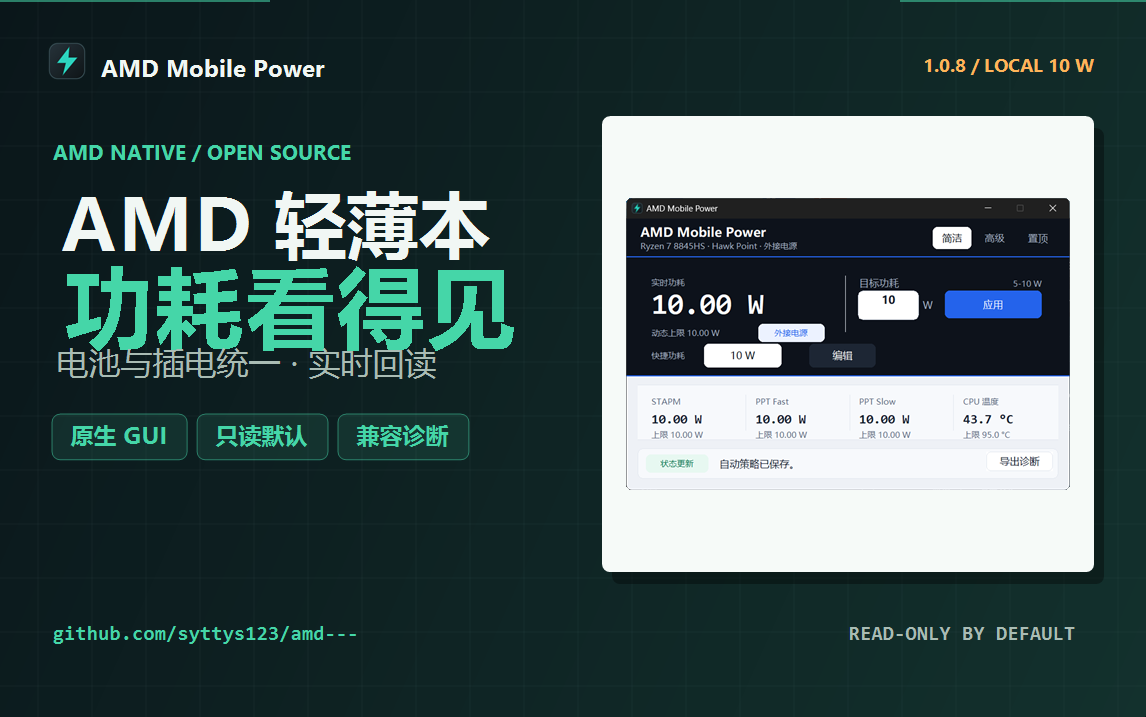
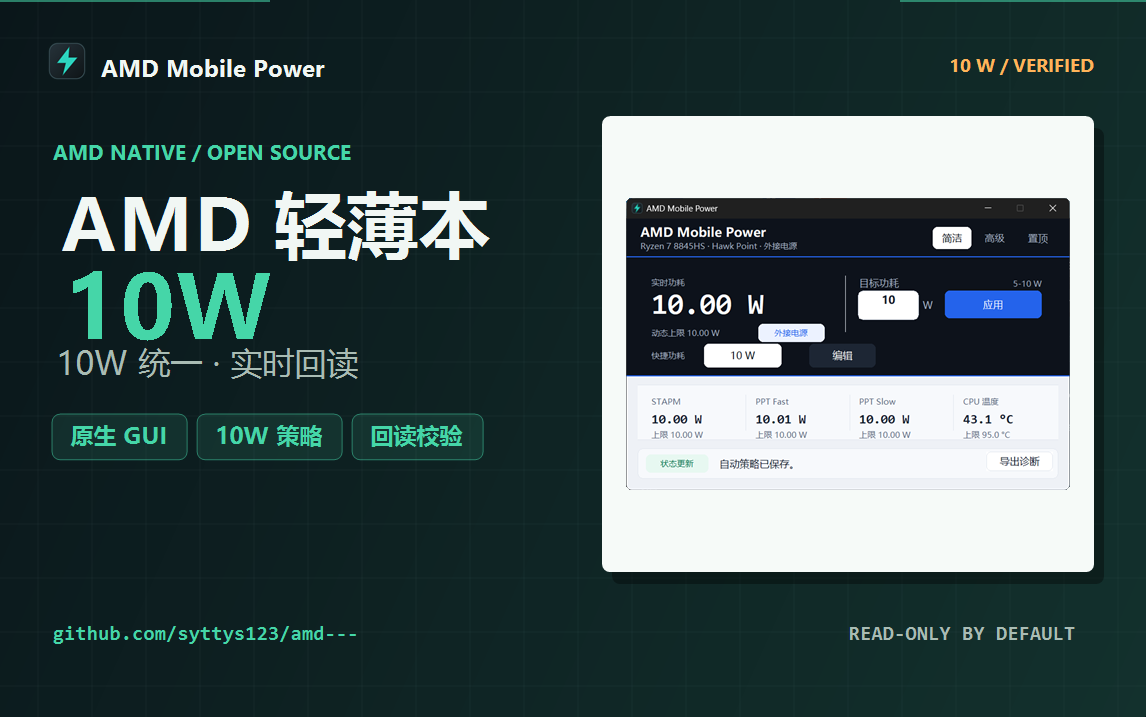
chore(native): promote 1.0.18-native with the worker-hang gate
Package fd7bf191ac557fb9bc1038cb725907ba67e5f819b8eeee6136f5cbe2721d6ef1 (751600 bytes, 19 checksums) is the first package gated with -VerifyWorkerHang. The gate replaced the suspended worker in 34.9 s with 28/28 responsive samples and restored 10/10/10 W. Deployed UI/tray verification, 19/19 payload checksums, and live policy read-back pass.

Changed region(s): [[0.0305, 0.3682, 0.4581, 0.5523], [0.1832, 0.583, 0.4276, 0.6444], [0.8246, 0.0614, 0.9468, 0.1227]]

diff --git a/docs/NATIVE_RELEASE_CANDIDATE_ZH.md b/docs/NATIVE_RELEASE_CANDIDATE_ZH.md
@@ -3,7 +3,7 @@
 状态：`DRAFT_FOR_HUMAN_REVIEW`
 
 这不是公开 Release，也不是 B 站上传授权。本文只汇总原生 Rust GUI + C++
-worker 候选 `1.0.17-native` 的可复核资产、已验证边界和仍需人工完成的门禁。
+worker 候选 `1.0.18-native` 的可复核资产、已验证边界和仍需人工完成的门禁。
 
 ## 目标与定位
 
@@ -16,21 +16,21 @@ AMD 笔记本都受支持。
 
 - Repository: `https://github.com/syttys123/amd-mobile-power`
 - Branch: `main`
-- Candidate: `1.0.17-native`
+- Candidate: `1.0.18-native`
 - Package:
-  `artifacts/native-packages/amd-mobile-power-v1.0.17-native-win-x64-native-preview.zip`
-- Size: `751,599` bytes
+  `artifacts/native-packages/amd-mobile-power-v1.0.18-native-win-x64-native-preview.zip`
+- Size: `751,600` bytes
 - SHA256:
[1 lines of base64/hex data omitted]
-- Package source commit: `672933c9a053cb3d163c0d0166f34da09bf6d8d5`
[1 lines of base64/hex data omitted]
+- Package source commit: `12934dfb2850fab6a9a91216343b45a18f849d07`
 - Working tree at build time: clean
-- Review bundle: `artifacts/native-release-review/v1.0.17-native`
+- Review bundle: `artifacts/native-release-review/v1.0.18-native`
 
-本版新增 worker 卡死自愈：监控线程每完成一轮采样就更新心跳，连续 30 秒无
-心跳时 GUI 在后台线程终止并重启 worker，再下发掉电/插电自动策略；终止和
-限时等待都不占用 UI 线程，worker 卡在驱动调用时窗口仍可响应。1.0.16 的
-退出重启、探针管道忙重试、同提交逐字节可复现、目标框同步、安全驱动卸载、
-多代 profile 目录、DPI 门禁和电池/插电统一策略全部保留。
+本版是第一个把 `-VerifyWorkerHang` 纳入发布门禁的包：门禁会在展开包上
+挂起 worker，等待 30 秒心跳 watchdog 替换，检查窗口全程可响应，并要求
+10/10/10 W 策略恢复。1.0.17 的卡死自愈、退出重启、探针管道忙重试、同提交
+逐字节可复现、目标框同步、安全驱动卸载、多代 profile 目录、DPI 门禁和
+电池/插电统一策略全部保留。
 
 ## 本机验证
 
@@ -43,14 +43,16 @@ AMD 笔记本都受支持。
   （`collectionStatus=PASS`，AC `10/10/10 W`）：PASS。
 - 可复现构建：GUI `ff2dcd48`、worker `67af1d41`、探针 `6a050588`、
   ZIP `eac6fc73`，两次构建逐字节一致。（1.0.13 记录）
-- 1.0.17 可复现构建：GUI `63193c17`、worker `67af1d41`、探针 `9750418f`、
-  ZIP `95abf61a`，两次构建逐字节一致。
+- 1.0.18 可复现构建：GUI `63193c17`、worker `67af1d41`、探针 `9750418f`、
+  ZIP `fd7bf191`，两次构建逐字节一致。
 - worker 自我修复：杀掉部署中的 worker 后新进程 `1.3 s` 内就绪，策略重新
   下发为 `enabled=true`、电池/插电 `10/10/10`，实时回读 `10/10/10 W`；探针在
   GUI 轮询下连续 `30/30` 次调用成功。
 - worker 卡死替换：`NtSuspendProcess` 挂起隔离 worker `34.5 s`，GUI 全程
   `Responding=true`，新 worker 接替后策略恢复为 `enabled=true`、电池/插电
   `10/10/10`、`lastAttemptSucceeded=true`。
+- `1.0.18` 的 `-VerifyWorkerHang` 打包门禁：替换 `34.9 s`、`28/28` 次窗口
+  响应采样通过、失败 0 次，策略恢复 `10/10/10 W`。
 - 隔离安装、覆盖安装、卸载：PASS。
 - 真实当前用户 Start menu / Startup / uninstall entry 建删循环：PASS。
 - `1.0.9-native -> 1.0.10-native` 晋升：包校验、隔离安装/卸载、桌面快捷方式
@@ -71,6 +73,11 @@ AMD 笔记本都受支持。
 
 Evidence:
 
+- `docs/evidence/packaging/v1.0.18-native-clean-2026-11-12.json`
+- `docs/evidence/packaging/v1.0.18-native-release-gate-2026-11-12.json`
+- `docs/evidence/packaging/v1.0.18-native-shell-integration-2026-11-12.json`
+- `docs/evidence/hardware/v1.0.18-native-worker-hang-2026-11-12.json`
+- `docs/evidence/ui/native-packaged-1.0.18-native-ui-2026-11-12.json`
 - `docs/evidence/packaging/v1.0.17-native-watchdog-hang-2026-11-12.json`
 - `docs/evidence/packaging/v1.0.17-native-clean-2026-11-12.json`
 - `docs/evidence/packaging/v1.0.17-native-release-gate-2026-11-12.json`
@@ -94,6 +101,7 @@ Evidence:
 
 Evidence:
 
+- `docs/evidence/hardware/v1.0.18-native-power-policy-no-change-2026-11-12.json`
 - `docs/evidence/hardware/v1.0.17-native-power-policy-no-change-2026-11-12.json`
 - `docs/evidence/hardware/v1.0.17-native-worker-hang-verifier-2026-11-12.json`
 - `docs/evidence/compatibility/mechrevo-wujie15-pro-20261112-011617.json`
@@ -103,10 +111,10 @@ Evidence:
 ## 本地部署
 
 - 目标目录：`C:\RyzenAdj`
-- 版本：`1.0.17-native`
-- 旧版备份：`C:\RyzenAdj.before-20261112-070824`
+- 版本：`1.0.18-native`
+- 旧版备份：`C:\RyzenAdj.before-20261112-074413`
 - 仓库备份：
-  `artifacts/deployment-backups/promote-amd-mobile-power-v1.0.17-native-win-x64-native-preview-20261112-070824.json`
+  `artifacts/deployment-backups/promote-amd-mobile-power-v1.0.18-native-win-x64-native-preview-20261112-074413.json`
 - 桌面快捷方式：`<USER_HOME>\Desktop\功耗设置 5-60W.lnk`
 - 快捷方式参数：`--enable-write-controls --simple-mode --max-target-watts 10
   --uniform-target-watts 10`
@@ -114,7 +122,7 @@ Evidence:
   快捷方式真实参数启动验证 PASS；实时策略 `enabled=true`、电池和插电均为
   `10/10/10 W`，AC 回读 `10/10/10 W`
 - Evidence:
-  `docs/evidence/packaging/v1.0.17-native-deployment-2026-11-12.json`
+  `docs/evidence/packaging/v1.0.18-native-deployment-2026-11-12.json`
 
 ## 发布就绪检查
 
@@ -129,7 +137,7 @@ Evidence:
   真实 100%/150% Windows 会话缩放、托管 CI、
   WinRing0 干净安全基线、视频/封面/文案审阅、公开发布批准、B 站上传。
 - Evidence:
-  `docs/evidence/release/native-publication-readiness-1.0.17-2026-11-12.json`
+  `docs/evidence/release/native-publication-readiness-1.0.18-2026-11-12.json`
 
 ## 发布媒体
 
@@ -138,7 +146,7 @@ Evidence:
 - 时长：`78.2 s`，`1920x1080`，H.264 + AAC
 - SHA256：
[1 lines of base64/hex data omitted]
-- B 站封面：`docs/assets/bilibili-cover-native-1.0.17-2026-11-12.png`
+- B 站封面：`docs/assets/bilibili-cover-native-10w-2026-11-12.png`
 - 审片帧：`docs/assets/native-promo-10w-contact-sheet-2026-11-12.png`
 - 机器证据：`docs/evidence/media/native-promo-draft-2026-11-12.json`
 
@@ -177,7 +185,7 @@ PM table、匹配 profile、电源线和当前限制，并写出脱敏 JSON/Mark
 ```powershell
 pwsh -NoProfile -ExecutionPolicy Bypass `
   -File native\verify-release.ps1 `
-  -Version 1.0.17-native `
+  -Version 1.0.18-native `
   -ExecuteNoChangePolicy `
   -VerifyShellIntegration
 ```

diff --git a/docs/NATIVE_RC_STATUS.md b/docs/NATIVE_RC_STATUS.md
@@ -3,8 +3,9 @@
 Status: `STABLE_LOCAL_DEPLOYED`
 
 This document tracks the native Rust GUI + C++ worker package and its
-stable-local deployment. `C:\RyzenAdj` currently holds `1.0.17-native`. The
-previous native `1.0.16-native` build is preserved as
+stable-local deployment. `C:\RyzenAdj` currently holds `1.0.18-native`. The
+previous native `1.0.17-native` build is preserved as
+`C:\RyzenAdj.before-20261112-074413`, `1.0.16-native` as
 `C:\RyzenAdj.before-20261112-070824`, `1.0.15-native` as
 `C:\RyzenAdj.before-20261112-064143`, `1.0.14-native` as
 `C:\RyzenAdj.before-20261112-063328`, `1.0.13-native` as
@@ -27,13 +28,15 @@ previous native `1.0.16-native` build is preserved as
 
 Decision (2026-11-12): the native line has a hardware-gated stable-local
 candidate for the verified 8845HS platform, and `C:\RyzenAdj` now contains the
-`1.0.17-native` package. Broader AMD generation support remains experimental.
+`1.0.18-native` package. Broader AMD generation support remains experimental.
 The current local publication readiness gate is `PASS` with all 13 checks true,
 with
 `PublicReleaseReadiness=READY_FOR_HUMAN_REVIEW` and no local blockers. Evidence:
-`docs/evidence/release/native-publication-readiness-1.0.17-2026-11-12.json`.
+`docs/evidence/release/native-publication-readiness-1.0.18-2026-11-12.json`.
 
-Note (2026-11-12): `1.0.17-native` adds hung-worker replacement on top of the
+Note (2026-11-12): `1.0.18-native` is the first package gated with
+`-VerifyWorkerHang`, which runs the maintained hang verifier against the
+expanded package. `1.0.17-native` added hung-worker replacement on top of the
 30 s heartbeat watchdog. A worker that stops answering is terminated from a
 background thread and respawned, then the saved battery/AC policy is restored;
 the GUI window remains responsive even while a driver-bound worker is being
@@ -86,13 +89,13 @@ accessibility settings.
 ## Current Candidate
 
 ```text
-artifacts/native-packages/amd-mobile-power-v1.0.17-native-win-x64-native-preview.zip
+artifacts/native-packages/amd-mobile-power-v1.0.18-native-win-x64-native-preview.zip
 ```
 
-- Size: `751,599` bytes.
+- Size: `751,600` bytes.
 - SHA256:
[1 lines of base64/hex data omitted]
-- Source commit: `672933c9a053cb3d163c0d0166f34da09bf6d8d5`.
[1 lines of base64/hex data omitted]
+- Source commit: `12934dfb2850fab6a9a91216343b45a18f849d07`.
 - Working tree at build time: clean.
 - Reproducibility: GUI `63193c17`, probe `9750418f`, worker `67af1d41`, and the
   ZIP itself are byte-identical across two builds.
@@ -101,7 +104,7 @@ artifacts/native-packages/amd-mobile-power-v1.0.17-native-win-x64-native-preview
 Local review bundle:
 
 ```text
-artifacts/native-release-review/v1.0.17-native
+artifacts/native-release-review/v1.0.18-native
 ```
 
 The bundle is `REVIEW_ONLY` and is not a public release.
@@ -153,7 +156,7 @@ and source commit `ddb7d9cba3195f4a16df1299215a9e26cd18544f`.
 - Read-only hardware capability and telemetry probe on Ryzen 7 8845HS on AC:
   Hawk Point family `10`, PM table `4c0009`, profile
   `hawk-point-8845hs`, limits `10/10/10 W`.
-- `1.0.17-native` clean package verification (19 checksum entries), isolated
+- `1.0.18-native` clean package verification (19 checksum entries), isolated
   install/uninstall, shell integration, DPI fixtures, packaged headless probe,
   and a controlled current-value policy probe pass. The deployed UI shows
   target editor `10`, effective range `5-10 W`, one visible `10 W` preset, and
@@ -177,6 +180,9 @@ and source commit `ddb7d9cba3195f4a16df1299215a9e26cd18544f`.
   suspends the worker, samples GUI responsiveness every second, and requires
   the replacement to restore the 10 W policy. `verify-release.ps1
   -VerifyWorkerHang` runs it against the expanded package.
+- `1.0.18-native` is the first package gated with `-VerifyWorkerHang`:
+  replacement in `34.9 s`, `28/28` responsive samples, zero failures, and the
+  10/10/10 W policy restored.
 - Native read-only write guard: invalid target rejected, no write requested.
 - Battery-authorized dry-run write guard: PASS with
   `ExecuteNoChangeWrite=Not requested`.
@@ -260,6 +266,13 @@ and source commit `ddb7d9cba3195f4a16df1299215a9e26cd18544f`.
 
 ## Evidence
 
+- `docs/evidence/packaging/v1.0.18-native-clean-2026-11-12.json`
+- `docs/evidence/packaging/v1.0.18-native-release-gate-2026-11-12.json`
+- `docs/evidence/packaging/v1.0.18-native-shell-integration-2026-11-12.json`
+- `docs/evidence/packaging/v1.0.18-native-deployment-2026-11-12.json`
+- `docs/evidence/hardware/v1.0.18-native-power-policy-no-change-2026-11-12.json`
+- `docs/evidence/hardware/v1.0.18-native-worker-hang-2026-11-12.json`
+- `docs/evidence/ui/native-packaged-1.0.18-native-ui-2026-11-12.json`
 - `docs/evidence/packaging/v1.0.17-native-watchdog-hang-2026-11-12.json`
 - `docs/evidence/packaging/v1.0.17-native-clean-2026-11-12.json`
 - `docs/evidence/packaging/v1.0.17-native-release-gate-2026-11-12.json`
@@ -295,7 +308,7 @@ and source commit `ddb7d9cba3195f4a16df1299215a9e26cd18544f`.
 - `docs/evidence/ui/native-deployed-1.0.8-native-ui-2026-11-12.json`
 - `docs/evidence/ui/native-dpi-100-125-150-2026-11-12.json`
 - `docs/evidence/compatibility/mechrevo-wujie15-pro-20261112-011617.json`
-- `docs/evidence/release/native-publication-readiness-1.0.17-2026-11-12.json`
+- `docs/evidence/release/native-publication-readiness-1.0.18-2026-11-12.json`
 - `docs/assets/native-exe-icon-2026-11-11.png`
 - `native/rust-gui/build.rs`
 - `native/check-exe-icon.ps1`

diff --git a/docs/DEPLOYMENT.md b/docs/DEPLOYMENT.md
@@ -75,27 +75,28 @@ rolls back on failure.
 
 ## Current Deployment Evidence
 
-On 2026-11-12, `1.0.17-native` replaced `1.0.16-native` at `C:\RyzenAdj`. It
-adds hung-worker replacement: a 30 s heartbeat watchdog terminates and
-respawns a worker that stops answering, from a background thread, then
-restores the saved battery/AC policy. Exit supervision, probe pipe-busy
-retries, and the 10 W uniform policy remain in place.
+On 2026-11-12, `1.0.18-native` replaced `1.0.17-native` at `C:\RyzenAdj`. It
+is the first package gated with `-VerifyWorkerHang`: the gate suspends the
+isolated worker, waits for the 30 s heartbeat watchdog to replace it, checks
+that the GUI stays responsive, and requires the saved 10/10/10 W policy to
+return. Exit supervision, probe pipe-busy retries, and the 10 W uniform policy
+remain in place.
 
 - Package SHA256:
[1 lines of base64/hex data omitted]
-- Package size: `751,599` bytes, 19 checksum entries
-- Package source commit: `672933c9a053cb3d163c0d0166f34da09bf6d8d5`
[1 lines of base64/hex data omitted]
+- Package size: `751,600` bytes, 19 checksum entries
+- Package source commit: `12934dfb2850fab6a9a91216343b45a18f849d07`
[3 lines of base64/hex data omitted]
-- Previous stable rollback directory: `C:\RyzenAdj.before-20261112-070824`
+- Previous stable rollback directory: `C:\RyzenAdj.before-20261112-074413`
 - Release gate:
-  `docs\evidence\packaging\v1.0.17-native-release-gate-2026-11-12.json`
+  `docs\evidence\packaging\v1.0.18-native-release-gate-2026-11-12.json`
 - Deployment evidence:
-  `docs\evidence\packaging\v1.0.17-native-deployment-2026-11-12.json`
-- Acceptance: `NtSuspendProcess` held the live worker for `34.5 s`; the GUI
-  stayed responsive, a replacement worker appeared, and the saved policy was
-  re-applied (`enabled=true`, both targets `10/10/10`).
+  `docs\evidence\packaging\v1.0.18-native-deployment-2026-11-12.json`
+- Acceptance: `-VerifyWorkerHang` held the isolated worker until the watchdog
+  replaced it in `34.9 s`; `28/28` responsiveness samples passed and the saved
+  policy was re-applied (`enabled=true`, both targets `10/10/10`).
 
 On 2026-11-12, `1.0.13-native` replaced `1.0.12-native` at `C:\RyzenAdj`. It is
 the first release whose portable ZIP rebuilds byte-identically from the same

diff --git a/README.md b/README.md
@@ -6,7 +6,7 @@ AMD thin-and-light laptops. It uses a Rust GUI and a separate C++ worker so the
 UI and hardware access stay behind a narrow named-pipe contract.
 
 > Status: no public release yet. The current stable-local candidate is
-> `1.0.17-native`, validated on one MECHREVO WUJIE15 PRO with a Ryzen 7 8845HS.
+> `1.0.18-native`, validated on one MECHREVO WUJIE15 PRO with a Ryzen 7 8845HS.
 > Its GUI, probe, worker, and portable ZIP rebuild byte-identically from the
 > same commit. Local publication readiness is `PASS`; the release remains
 > `READY_FOR_HUMAN_REVIEW`.
@@ -71,12 +71,12 @@ portable package's read-only default.
 Current review candidate:
 
 ```text
-artifacts/native-packages/amd-mobile-power-v1.0.17-native-win-x64-native-preview.zip
+artifacts/native-packages/amd-mobile-power-v1.0.18-native-win-x64-native-preview.zip
 ```
 
-- Size: `751,599` bytes
+- Size: `751,600` bytes
 - SHA256:
[2 lines of base64/hex data omitted]
 
 1. Extract the complete ZIP to a writable directory.
 2. On a fresh Windows host, open an elevated PowerShell in the extracted
@@ -148,7 +148,7 @@ git submodule update --init --recursive
 .\native\verify-native.ps1 -NoBuild -VerifyHardware -VerifyRustGui `
   -VerifyRustWorker -VerifyWriteGuard
 .\native\verify-release.ps1 `
-  -Version 1.0.17-native `
+  -Version 1.0.18-native `
   -VerifyReproducibility `
   -VerifyShellIntegration `
   -ExecuteNoChangePolicy `

diff --git a/docs/DEV_STATUS.md b/docs/DEV_STATUS.md
@@ -221,7 +221,19 @@ not authoritative.
   bundle is `artifacts/native-release-review/v1.0.13-native`. Open gates remain
   the second AMD device, real 100%/150% Windows sessions, and hosted CI.
   Evidence: `docs/evidence/release/native-publication-readiness-1.0.13-2026-11-12.json`.
-- `C:\RyzenAdj` now contains the promoted `1.0.17-native` package, which adds
+- `C:\RyzenAdj` now contains the promoted `1.0.18-native` package, the first
+  package gated with `-VerifyWorkerHang`. Package SHA256 is
[1 lines of base64/hex data omitted]
+  (751,600 bytes, 19 checksum entries) from clean commit `12934df`; GUI
+  `63193c17`, probe `9750418f`, worker `67af1d41`. The previous deployment is
+  recoverable at `C:\RyzenAdj.before-20261112-074413`. The gate suspended the
+  isolated worker, replaced it in `34.9 s` with `28/28` responsive samples,
+  and restored `enabled=true` with both targets `10/10/10 W`. Packaged UI,
+  shell integration, DPI fixtures, the no-change 10 W policy write, and
+  reproducibility all passed. Evidence:
+  `docs/evidence/packaging/v1.0.18-native-release-gate-2026-11-12.json`,
+  `docs/evidence/packaging/v1.0.18-native-deployment-2026-11-12.json`.
+- `C:\RyzenAdj` previously contained the promoted `1.0.17-native` package, which adds
   hung-worker replacement on top of the 1.0.16 supervision path. Package
   SHA256 is
[1 lines of base64/hex data omitted]

diff --git a/docs/PROMO_VIDEO.md b/docs/PROMO_VIDEO.md
@@ -18,7 +18,7 @@ target editor and the `5-10 W` effective range. It is marked
 
 Bilibili 1146x717 cover:
 
-![Bilibili launch cover](assets/bilibili-cover-native-1.0.17-2026-11-12.png)
+![Bilibili launch cover](assets/bilibili-cover-native-10w-2026-11-12.png)
 
 Local render:
 
@@ -55,10 +55,10 @@ Regenerate the Bilibili cover:
 
 ```powershell
 .\render-launch-cover.ps1 `
-  -OutputPath .\docs\assets\bilibili-cover-native-1.0.17-2026-11-12.png `
+  -OutputPath .\docs\assets\bilibili-cover-native-10w-2026-11-12.png `
   -ScreenshotPath .\assets\native-gui-10w-1.0.10-simple-2026-11-12.png `
   -Eyebrow "AMD NATIVE / OPEN SOURCE" `
-  -PreviewLabel "1.0.17 / LOCAL 10 W" `
+  -PreviewLabel "10 W / VERIFIED" `
   -TitleLine1 "AMD 轻薄本" `
   -TitleLine2 "10W" `
   -Subtitle "10W 统一 · 实时回读" `
